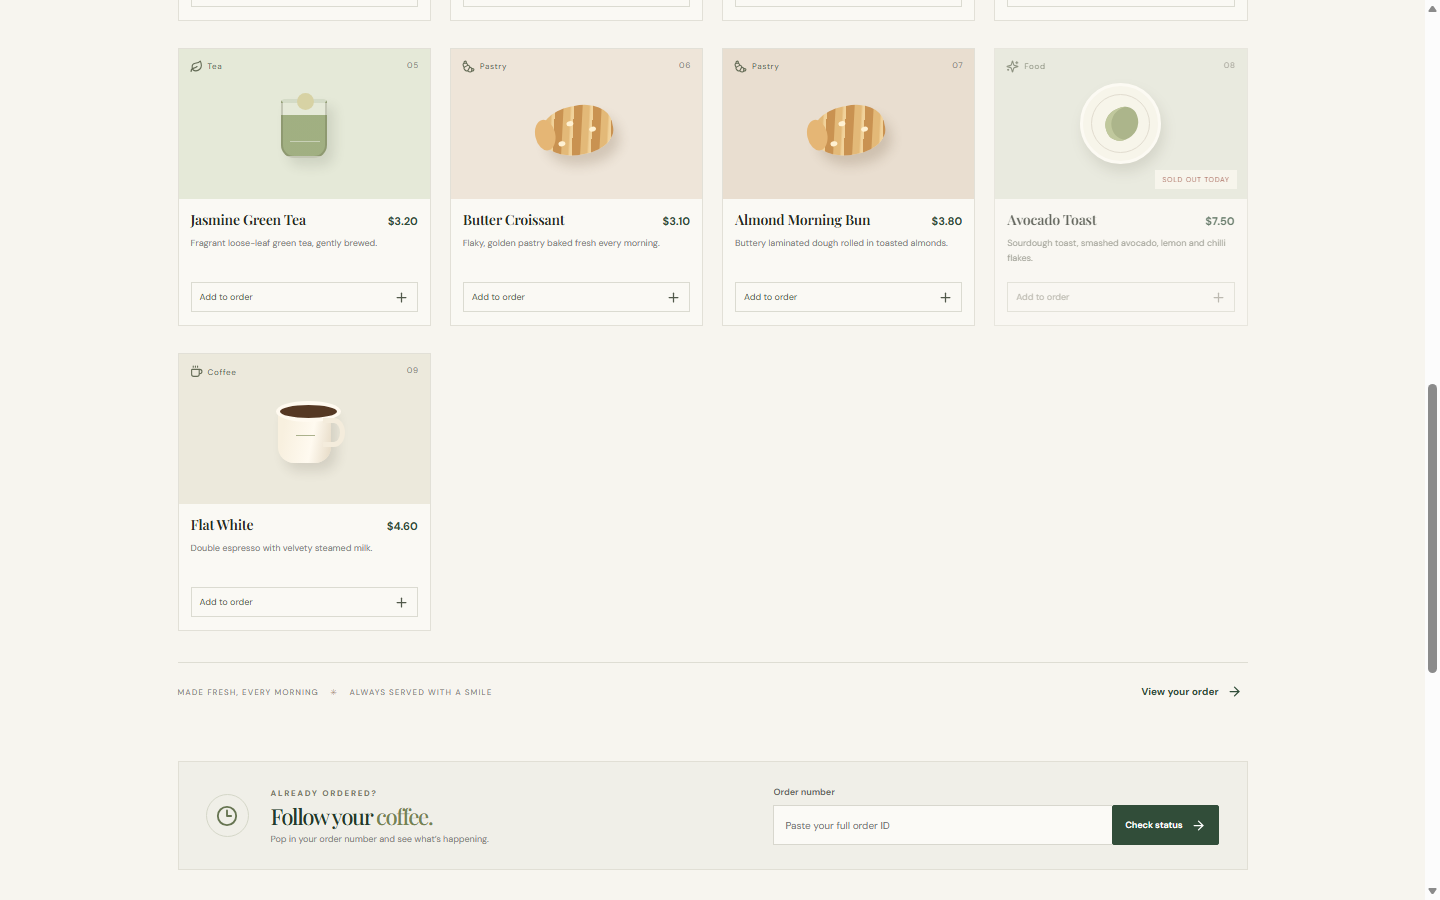
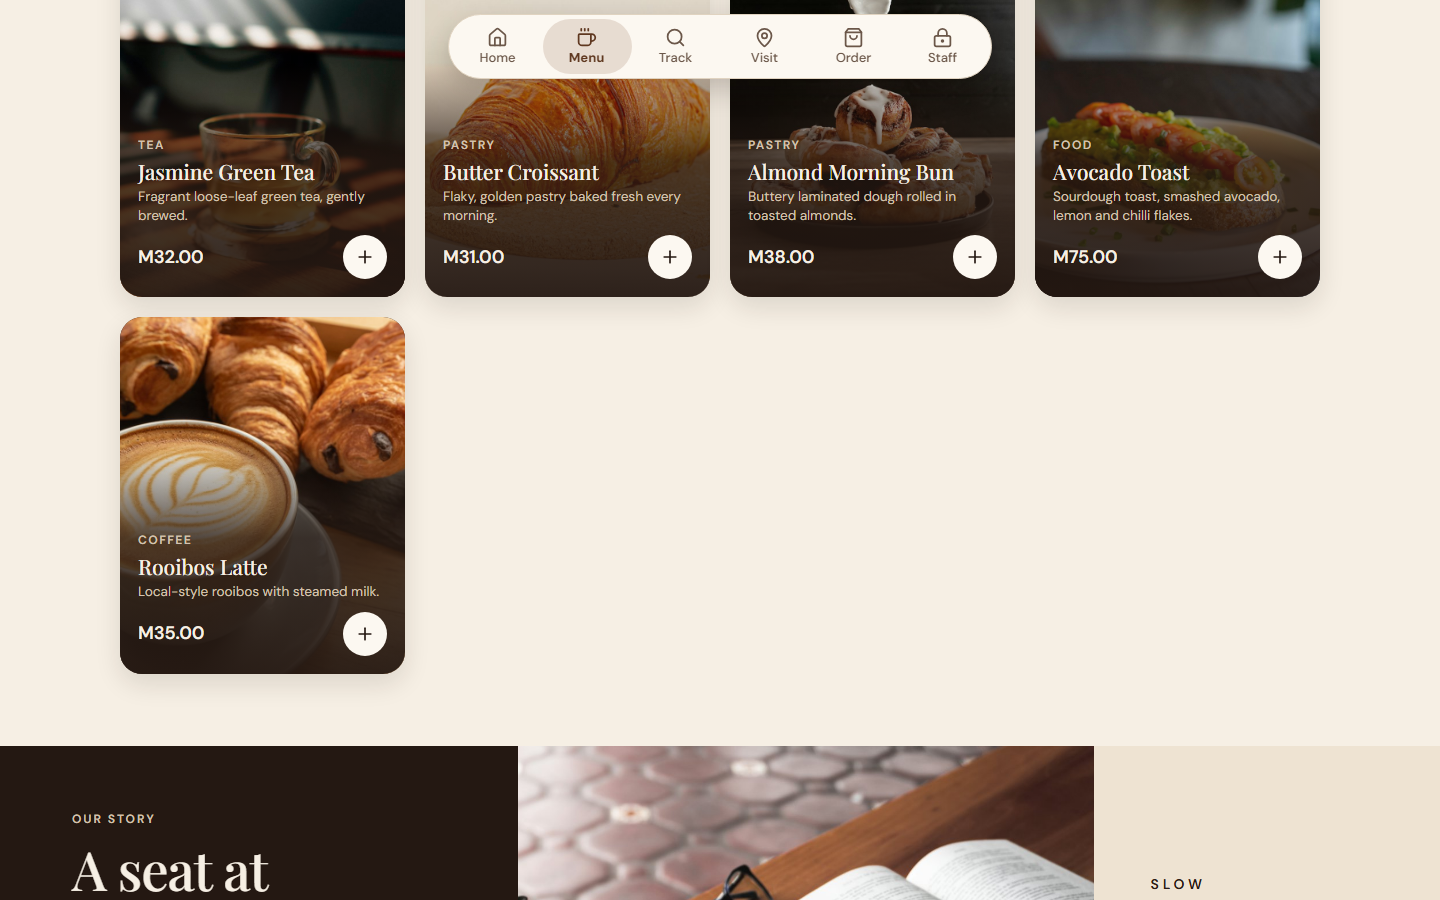
Add live URLs, photo credits and updated screenshots
Replace the deployment placeholders, update the demonstration guide for the new
navigation, and refresh the screenshots with the new design, the live health
check and the records in the Upstash database.

diff --git a/README.md b/README.md
@@ -9,9 +9,9 @@ BIWA2110 Web Application Development: Group Assignment.
 | Part | URL |
 | --- | --- |
 | GitHub repository | <https://github.com/lefamoopisalmk-afk/groupassignmen_coffe-managment> |
-| React frontend (Netlify) | _add after deployment_ |
-| Express backend (Render) | _add after deployment_ |
-| Backend health check | _backend URL_ + `/api/health` |
+| React frontend (Netlify) | <https://netlify-deploy-3a6a60.netlify.app> |
+| Express backend (Render) | <https://coffee-shop-api-ozjb.onrender.com> |
+| Backend health check | <https://coffee-shop-api-ozjb.onrender.com/api/health> |
 
 The backend runs on Render's free plan, which sleeps when idle, so the first request after a quiet period can take about a minute. Open the health check first before a demonstration.
 
@@ -19,7 +19,7 @@ The backend runs on Render's free plan, which sleeps when idle, so the first req
 
 **Customers**
 
-- Browse coffee, tea, pastries and food, with each item's name, description, price and availability.
+- Browse coffee, tea, pastries and food, with each item's name, description, availability and price in Lesotho maloti (M).
 - Filter by category and search by name.
 - Add items to a cart and change quantities.
 - Place an order with a name and optional notes, then receive a confirmation and unique order number.
@@ -43,7 +43,7 @@ The backend runs on Render's free plan, which sleeps when idle, so the first req
 
 | Layer | Technology | Hosting |
 | --- | --- | --- |
-| Frontend | React 19, TypeScript, Vite, Fetch API, lucide-react | Netlify |
+| Frontend | React 19, TypeScript, Vite, Fetch API, Framer Motion, lucide-react | Netlify |
 | Backend | Node.js, Express 5, Zod, cors, express-rate-limit | Render |
 | Database | Redis (key-value NoSQL) through the official `redis` client | Upstash |
 | Testing | Node.js built-in test runner | |
@@ -55,6 +55,8 @@ The backend runs on Render's free plan, which sleeps when idle, so the first req
 client/           React frontend
   src/api.ts      All Fetch API calls
   src/App.tsx     Customer interface and staff dashboard
+  src/components/ui/floating-nav.tsx  Navigation bar
+  public/images/  Photos
 server/           Express REST API
   src/app.js      Routes, authentication and error flow
   src/store.js    Redis key-value storage
@@ -209,7 +211,37 @@ See the [demonstration guide](docs/DEMO.md) for the full add-item, place-order a
 | --- | --- | --- |
 | ![Customer menu](docs/screenshots/02-customer-menu.png) | ![Order confirmation](docs/screenshots/demo-2c-order-confirmation.png) | ![Staff dashboard](docs/screenshots/demo-3b-status-updated-to-ready.png) |
 
-These images use sample data from a local test run.
+The menu image is from the live site. The order and staff images use sample data from a local test run.
+
+Stored records in the live Upstash database:
+
+![Records in the Upstash Data Browser](docs/screenshots/07-database-records-upstash.jpg)
+
+Live backend health check:
+
+![Live health check](docs/screenshots/06-api-health-live.png)
+
+## Photo credits
+
+The photos in `client/public/images` are free to use under the [Unsplash License](https://unsplash.com/license).
+
+| File | Source |
+| --- | --- |
+| `hero-cafe.jpg` | <https://images.unsplash.com/photo-1469631423273-6995642a6a40> |
+| `espresso.jpg` | <https://images.unsplash.com/photo-1579992357154-faf4bde95b3d> |
+| `oat-latte.jpg` | <https://images.unsplash.com/photo-1760163178873-7644a924519e> |
+| `cappuccino.jpg` | <https://images.unsplash.com/photo-1506372023823-741c83b836fe> |
+| `cold-brew.jpg` | <https://images.unsplash.com/photo-1461023058943-07fcbe16d735> |
+| `green-tea.jpg` | <https://images.unsplash.com/photo-1615227875116-ae28a77814fb> |
+| `croissant.jpg` | <https://images.unsplash.com/photo-1681218079567-35aef7c8e7e4> |
+| `morning-bun.jpg` | <https://images.unsplash.com/photo-1645995575875-ea6511c9d127> |
+| `avocado-toast.jpg` | <https://images.unsplash.com/photo-1783307525039-b92506474dc8> |
+| `story-table.jpg` | <https://images.unsplash.com/photo-1558210834-473f430c09ac> |
+| `portafilter.jpg` | <https://images.unsplash.com/photo-1553292218-4892c2e7e1ae> |
+| `pastries.jpg` | <https://images.unsplash.com/photo-1623334044303-241021148842> |
+| `visit-bar.jpg` | <https://images.unsplash.com/photo-1551887196-72e32bfc7bf3> |
+| `latte-croissants.jpg` | <https://images.unsplash.com/photo-1763647872237-c76e660cf38b> |
+| `beans.jpg` | <https://images.unsplash.com/photo-1783926014847-748a8074eb38> |
 
 ## Contributions
 

diff --git a/docs/DEMO.md b/docs/DEMO.md
@@ -6,7 +6,7 @@ This walks through the three actions the assignment asks to be demonstrated: add
 
 ## 1. Add a menu item (staff)
 
-1. Open the website and select **Staff**.
+1. Open <https://netlify-deploy-3a6a60.netlify.app> and select **Staff** in the navigation bar.
 2. Enter the staff token and select **Open dashboard**.
 3. Open **Menu management**.
 4. Fill in the name, description, category and price, then select **Add to menu**.
@@ -23,8 +23,8 @@ The new item appears in the current menu list. The browser sends `POST /api/menu
 
    ![New item on the customer menu](screenshots/demo-2a-new-item-on-customer-menu.png)
 
-2. Select **Add to order** on the new item and any other item.
-3. Select **Your order**, and change a quantity with **+** or **-**.
+2. Select the **+** button on the new item and on any other item.
+3. Select **Order** in the navigation bar, and change a quantity with **+** or **-**.
 4. Enter a name and optional note, then select **Place my order**.
 
    ![Cart and checkout](screenshots/demo-2b-cart-and-checkout.png)
@@ -43,7 +43,7 @@ The new item appears in the current menu list. The browser sends `POST /api/menu
 
    ![Order status updated to Ready](screenshots/demo-3b-status-updated-to-ready.png)
 
-3. Select **Back to the shop**, and enter the order number under **Follow your coffee**. The customer sees the new status.
+3. Select **Track** in the navigation bar, and enter the order number under **Follow your coffee**. The customer sees the new status.
 
    ![Customer order status lookup](screenshots/04-customer-order-status-lookup.png)
 
@@ -52,3 +52,5 @@ The new item appears in the current menu list. The browser sends `POST /api/menu
 1. In the Render dashboard, select **Manual Deploy > Restart service** (or redeploy) and wait for it to come back.
 2. Reload the website. The new menu item, the order and its status are all still there.
 3. Show the stored records in the Upstash **Data Browser**, or run `npm run records` from the `server` folder.
+
+   ![Records in the Upstash Data Browser](screenshots/07-database-records-upstash.jpg)
